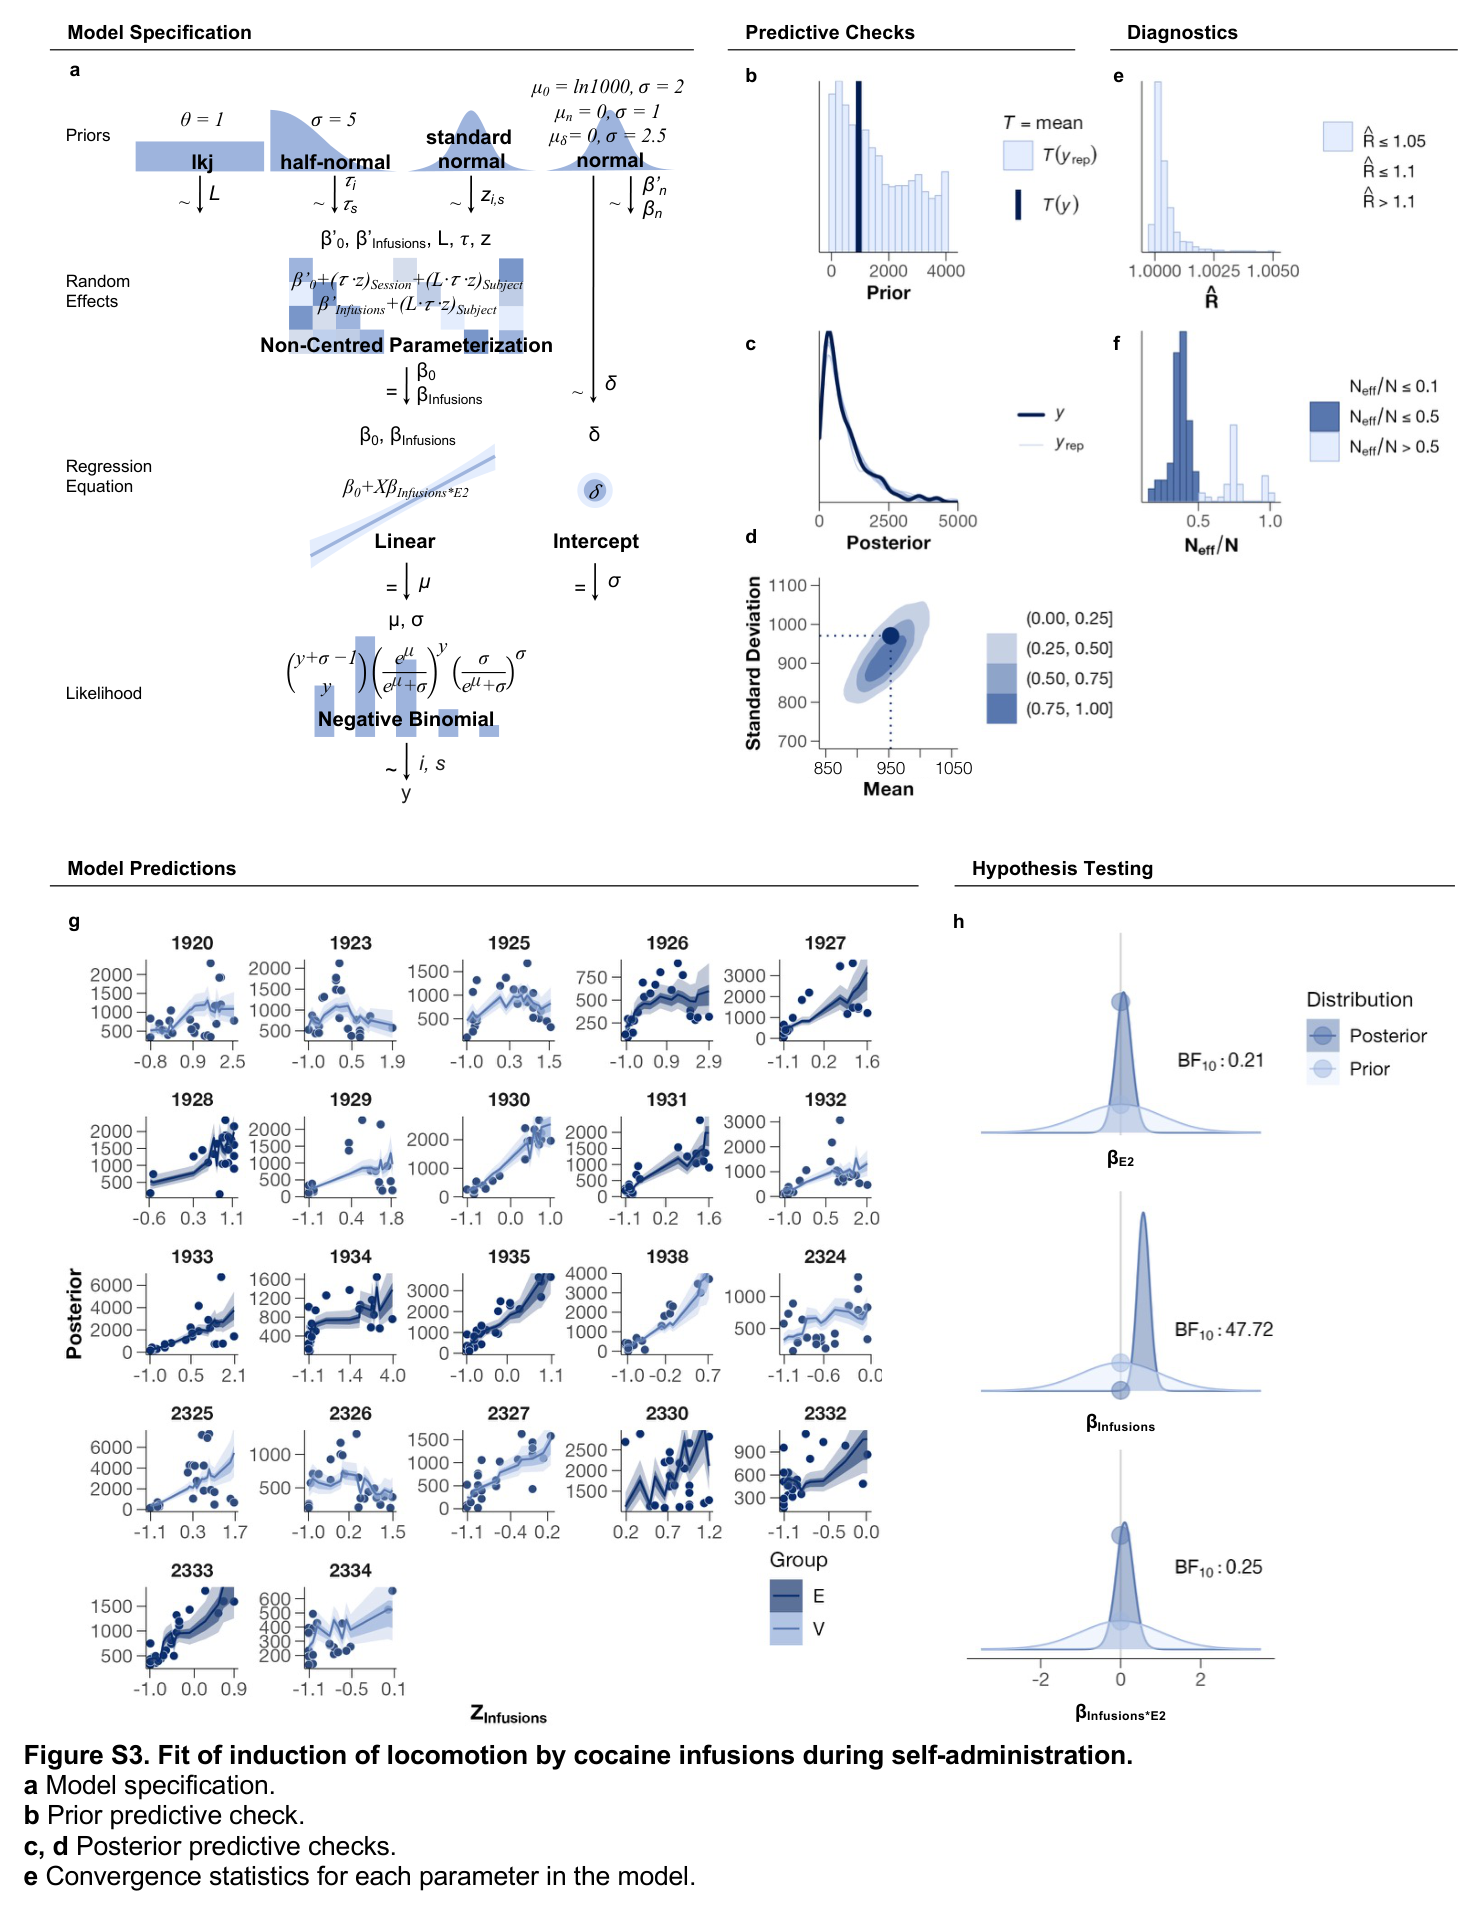
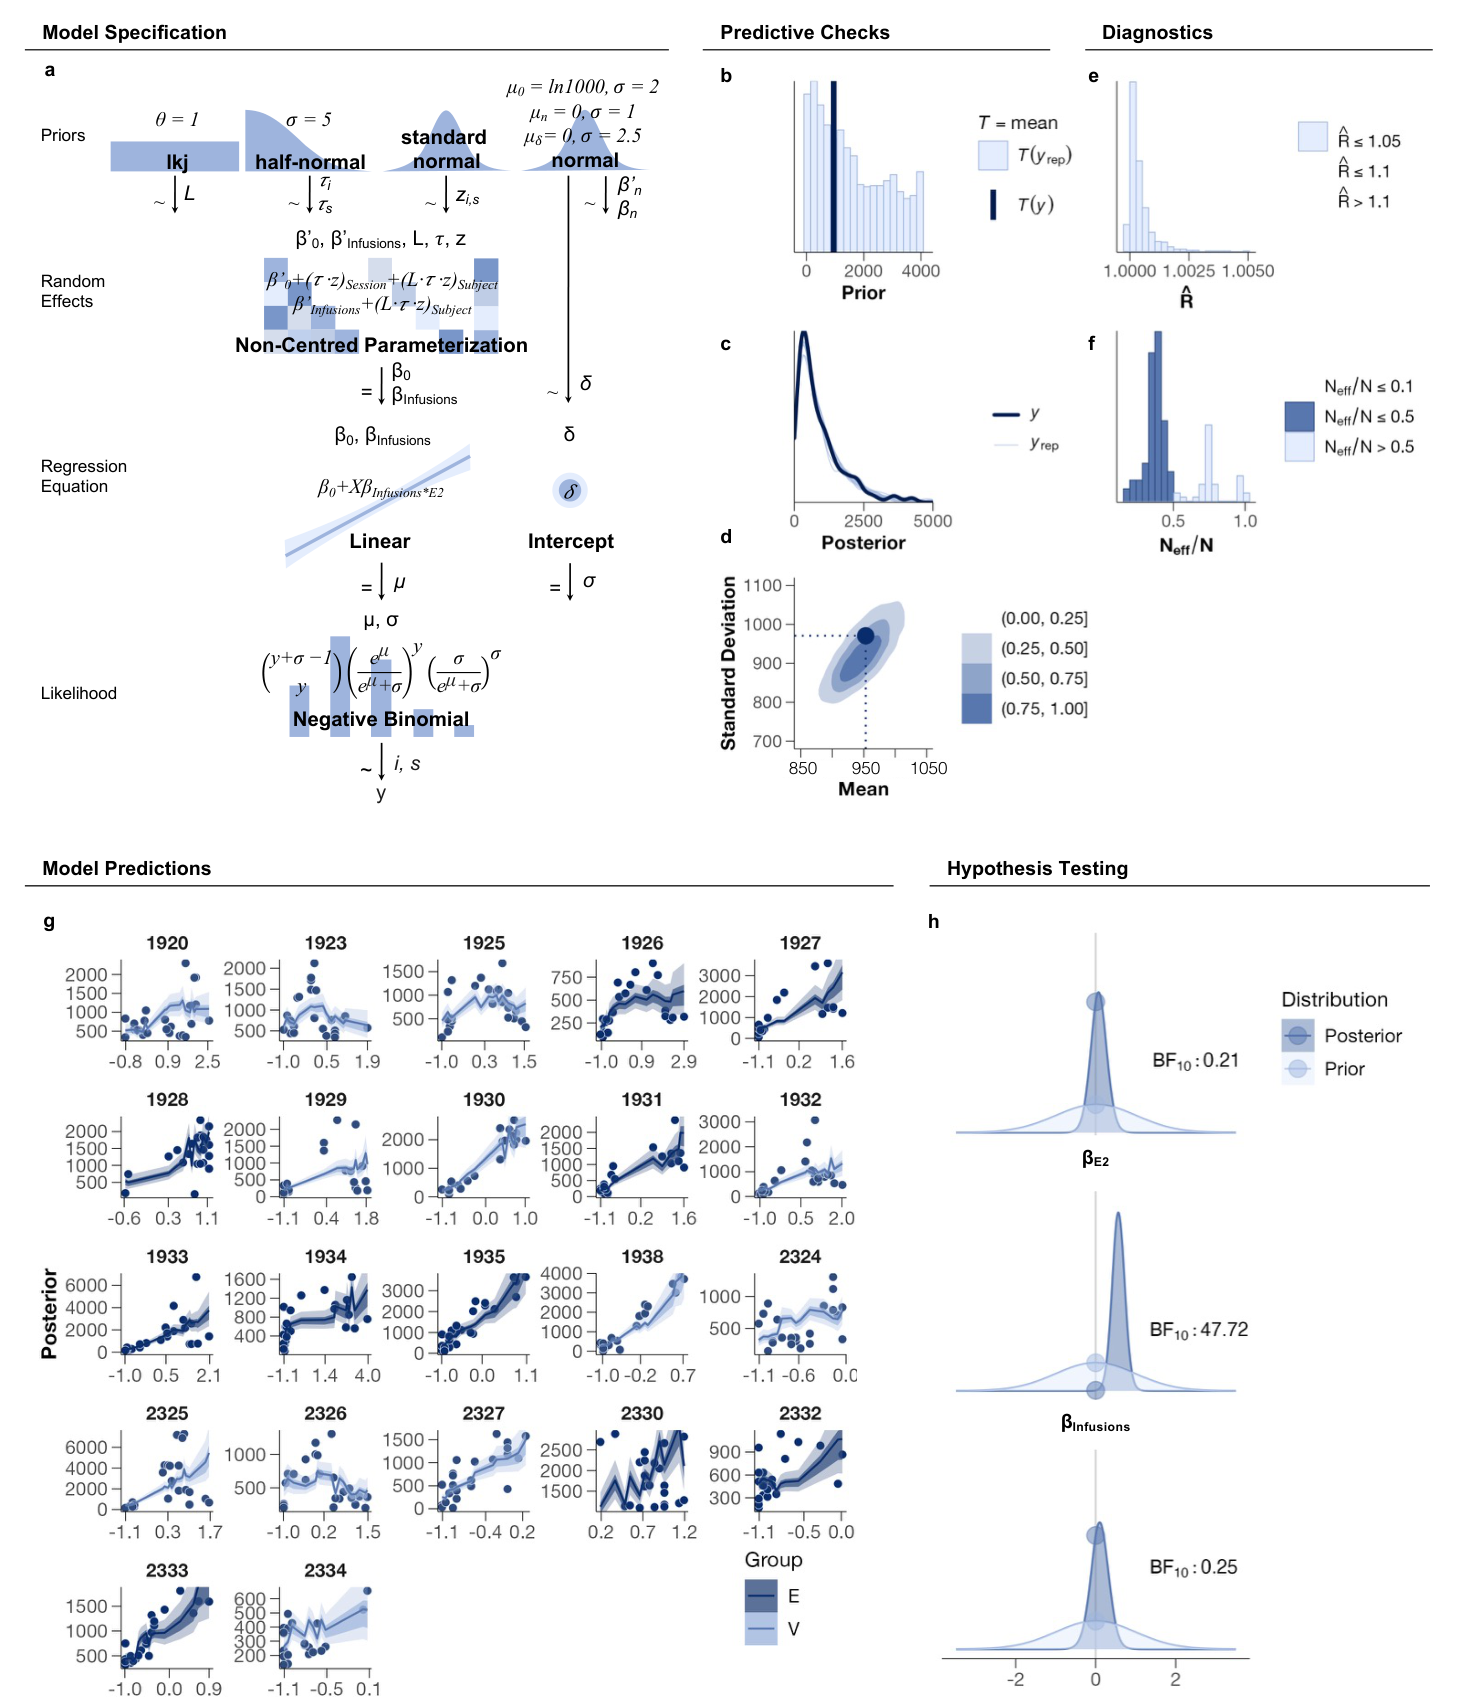
Place figures and model-documentation prose; site copy complete

diff --git a/model-documentation.html b/model-documentation.html
@@ -33,17 +33,11 @@
   </header>
 
   <section>
-    <p class="eyebrow">The set</p>
-    <h2>Seven models</h2>
+    <p class="eyebrow">Describing a model</p>
 
-    <div class="todo">
-      <span class="lbl">Write &mdash; about 80 words</span>
-      <p><em>Do not argue for the practice.</em> Anyone who can evaluate this page already knows what a generative diagram is and why you draw one. Explaining it spends words on a reader who was never going to be persuaded, and mildly patronises the one who was.</p>
-      <p><em>Say the one thing that is not obvious:</em> you cannot produce this diagram from a <code>brm()</code> call. Drawing it requires knowing what brms generated on your behalf &mdash; the non-centred reparameterisation, the Cholesky factor, where each prior actually lands. That is a claim about comprehension rather than usage, and it is yours.</p>
-      <p><em>Then the range:</em> three likelihood families, three link structures, priors annotated on the arrows with real numbers. Let the grid do the rest.</p>
-    </div>
+    <p>It can be difficult to adequately describe generative models in methods sections with many complex analyses and strict word limits. An effective method of clarifying the structure of these models is visualization (Kruschke, 2015). Each figure visually and compactly communicates the likelihood function selected and its parameters, the regression functions placed on each of these parameters, the random effects parameterization selected, and the priors placed on all parameters. All seven below are drawn at the same scale, so differences in height track how many hierarchical levels each model carries.</p>
 
-    <figure class="plate-grid" style="margin:26px 0">
+    <div class="plate-grid" style="margin:26px 0">
       <div class="mount"><img src="figures/model-diagram-1.png" alt="Generative model: generalized logistic growth on three responses, multivariate negative binomial likelihood, LKJ prior on the subject correlation matrix."></div>
       <div class="mount"><img loading="lazy" src="figures/model-diagram-2.png" alt="Generative model: exponential decay on three responses, multivariate negative binomial likelihood."></div>
       <div class="mount"><img loading="lazy" src="figures/model-diagram-3.png" alt="Generative model: linear predictor for infusions by estradiol, hierarchical on session and subject, negative binomial likelihood."></div>
@@ -51,57 +45,28 @@
       <div class="mount"><img loading="lazy" src="figures/model-diagram-5.png" alt="Generative model: linear predictor with lognormal likelihood for cumulative consumption."></div>
       <div class="mount"><img loading="lazy" src="figures/model-diagram-6.png" alt="Generative model: cocaine by estradiol, trivariate hierarchical multivariate negative binomial."></div>
       <div class="mount"><img loading="lazy" src="figures/model-diagram-7.png" alt="Generative model: exponential decay with estradiol, trivariate hierarchical multivariate negative binomial."></div>
-    </figure>
-    <figcaption style="margin-top:-8px"><b>Seven generative models</b> from a single study. All drawn at the same scale — the height differences are real, and track how many hierarchical levels each model carries.</figcaption>
+    </div>
   </section>
 
   <section>
-    <p class="eyebrow">The artifact</p>
-    <h2>What a complete audit page holds</h2>
+    <p class="eyebrow">Auditing a model</p>
 
-    <div class="todo">
-      <span class="lbl">Write &mdash; about 80 words</span>
-      <p><em>Name what is on the page, briefly &mdash; the panels are labelled in the figure and do not need narrating.</em> Specification, prior predictive, diagnostics, per-subject predictions, hypothesis test. One page per model, seven of them.</p>
-      <p><em>Then the one thing that is not standard.</em> Most supplements skip the prior predictive check entirely, and most report a summary fit rather than every subject. Say which of these you would drop last and why.</p>
-      <p><em>Cross-reference:</em> the specification panel at the top left is the third of the seven above.</p>
-    </div>
+    <p>In addition to describing the generative structures of the specified models, an audit of the reliability of the model predictions should be provided (Kruschke, 2021). We can show that the selected priors cover most of the range of plausible parameter values and that the data generating process was adequately described using predictive checks. We can also show that our MCMC chains converged with R&#770; and effective sample size histograms. Additionally, sometimes when the population predictions look reasonable, the model might fail catastrophically on some individual subjects &mdash; we can show subject-level posteriors to rule this error out. Finally, we can illustrate hypothesis testing of our model parameters in Savage-Dickey Bayes factor plots.</p>
 
     <figure>
-      <div class="mount"><img loading="lazy" src="figures/audit-acquisition.png" alt="Composite supplement page: model specification diagram, prior predictive checks, convergence diagnostics, twenty-seven per-subject model predictions, and three Savage-Dickey hypothesis tests."></div>
-      <figcaption><b>One model, fully documented.</b> Specification (a), prior and posterior predictive checks (b–d), convergence diagnostics (e–f), per-subject predictions (g), and Savage-Dickey density ratios with Bayes factors (h).</figcaption>
+      <div class="mount"><img loading="lazy" src="figures/audit-acquisition.png" alt="Composite supplement page: model specification diagram, prior predictive check, posterior predictive checks, convergence diagnostics, twenty-seven per-subject model predictions, and three Savage-Dickey hypothesis tests."></div>
     </figure>
+
+    <div class="callout">
+      <p>Kruschke, J. K. (2015). <em>Doing Bayesian Data Analysis: A Tutorial with R, JAGS, and Stan</em> (2nd ed.). Academic Press.</p>
+      <p>Kruschke, J. K. (2021). Bayesian analysis reporting guidelines. <em>Nature Human Behaviour</em>, 5(10), 1282&ndash;1291.</p>
+    </div>
   </section>
 
   <section>
-    <p class="eyebrow">Fit</p>
-    <h2>Every subject, not the average</h2>
+    <p class="eyebrow">Limitations</p>
 
-    <div class="todo">
-      <span class="lbl">Write — about 120 words</span>
-      <p><em>Claim:</em> a group mean can look like a good fit while individual animals are being badly described. Plotting every subject is the check that catches it.</p>
-      <p><em>Say what this grid actually showed you</em> — was there an animal the model handled badly? Name it. A concrete failure found this way is worth more than the principle.</p>
-      <p><em>Note</em> these are other investigators' projects that you did the analysis for, if you are comfortable saying so.</p>
-    </div>
-
-    <figure>
-      <div class="mount"><img loading="lazy" src="figures/subject-posteriors.png" alt="Grid of approximately sixty small panels, one per animal, each showing observed points against a posterior mean curve with credible band."></div>
-      <figcaption><b>Per-subject posterior predictions.</b> Non-linear growth curves with subject effects on every latent parameter.</figcaption>
-    </figure>
-  </section>
-
-  <section>
-    <p class="eyebrow">Limits</p>
-    <h2>What even this does not show</h2>
-
-    <div class="todo">
-      <span class="lbl">Write &mdash; about 120 words. The most valuable section on the site.</span>
-      <p><em>The move:</em> that audit page is about as thorough as supplements get, and it still has gaps. Naming them is the point of the section &mdash; it is what separates a thorough supplement from a considered one.</p>
-      <p><em>Three concrete gaps, all visible by their absence in the figure above:</em></p>
-      <p>&middot; <strong>Divergences are not plotted.</strong> Panels e and f are R&#770; and effective sample size; neither reports divergent transitions, and these models had some &mdash; consistently around 0.1%, from weak identifiability. A reader looking at those panels would not know.</p>
-      <p>&middot; <strong>No out-of-sample check.</strong> Every panel assesses fit to the data the model was given.</p>
-      <p>&middot; <strong>No comparison against an alternative.</strong> The audit shows this model is internally sound, not that it is the right one.</p>
-      <p><em>Do not hedge into vagueness.</em> Numbers where you have them, and say what you would trade to fix each.</p>
-    </div>
+    <p>Although thorough, these plots still do not convey some important information for establishing model trustworthiness. First, the model specified with two non-linear negative binomial models consistently outputs approximately 0.1% divergent transitions owing to weak random effect identifiability. The non-linear function and/or random effects structure should be simplified to remove these divergences. Additionally, these models are shown to be internally reliable, but these figures do not demonstrate that each model&rsquo;s predictions are accurate for new unfitted observations. Similarly, although reliable, these models are not necessarily the best models, as no model comparisons are demonstrated in these figures.</p>
   </section>
 
 </main>

diff --git a/figures.html b/figures.html
@@ -29,56 +29,52 @@
 
   <header class="page" style="border:0;padding-bottom:8px">
     <h1>Figures</h1>
-    <div class="todo" style="max-width:66ch">
-      <span class="lbl">Write — 30 words, two sentences</span>
-      <p><em>What the tool is and why you do it yourself.</em> That is the whole intro. Restraint is the game on this page; prose around the figures reads as insecurity about them.</p>
-      <p><em>Do not apologise for PowerPoint.</em> If it comes up it is a fact about the tool, not a caveat about the work.</p>
-    </div>
   </header>
 
   <section style="border:0;padding-top:20px">
-    <p class="eyebrow">Interoception and addiction · review</p>
+    <p>These figures are made simply using PowerPoint shapes and splines rather than pre-fabricated icons, for a look unique to me.</p>
+  </section>
+
+  <section style="border:0">
+    <p class="eyebrow">Unpublished &mdash; cut from an earlier draft of the review, which discussed sex differences more</p>
 
     <figure class="plate">
-      <h2>Estrogen receptor signalling</h2>
       <div class="mount"><img src="figures/er-signalling.jpg" alt="Radial diagram of a cell showing seven labelled signalling pathways: nuclear and membrane estrogen receptors, second messenger cascades, transcription factor complexes at ERE, AP-1 and CRE response elements, protein synthesis via mTORC, and ion channel effects on polarisation."></div>
-      <figcaption>
-        <div class="todo"><span class="lbl">Caption — 25 words</span>
-        <p><em>What it shows, where it appeared, one concrete construction detail.</em> The sector dividers, the decision to arrange radially, how long the receptor glyphs took — something a reader could not infer from looking.</p></div>
-      </figcaption>
-    </figure>
-
-    <figure class="plate">
-      <h2>Relapse circuitry</h2>
-      <div class="mount"><img loading="lazy" src="figures/relapse-circuits.jpg" alt="Sagittal rat brain with traced projections between prefrontal cortex, striatum, amygdala, hippocampus, thalamus and midbrain, with the striatum highlighted."></div>
-      <figcaption><div class="todo"><span class="lbl">Caption — one line</span><p>Where it appeared, and what it shows.</p></div></figcaption>
+      <figcaption><b>Figure 1.</b> Signal transduction via estrogen and progestin receptors in neurons in the brain.</figcaption>
     </figure>
 
     <div class="plate-grid">
       <figure class="plate">
-        <h2 style="font-size:21px">Receptor distribution</h2>
+        <div class="mount"><img loading="lazy" src="figures/relapse-circuits.jpg" alt="Sagittal rat brain with traced projections between prefrontal cortex, striatum, amygdala, hippocampus, thalamus and midbrain, with the striatum highlighted."></div>
+        <figcaption><b>Figure 2.</b> Inputs to the striatum involved in reinstatement of drug seeking in rats.</figcaption>
+      </figure>
+      <figure class="plate">
         <div class="mount"><img loading="lazy" src="figures/er-distribution.jpg" alt="Twelve coronal rat brain atlas plates arranged in three rows, with estrogen receptor density mapped by graded shading across three receptor subtypes."></div>
-        <figcaption><div class="todo"><span class="lbl">Caption &mdash; one line</span><p>Where it appeared, and what it shows. No construction detail needed &mdash; only two captions on this page carry one.</p></div></figcaption>
-      </figure>
-      <figure class="plate">
-        <h2 style="font-size:21px">Drug onset cues</h2>
-        <div class="mount"><img loading="lazy" src="figures/drug-onset-cue.jpg" alt="Rat illustrated with visceral organs and vagal afferents labelled by sensation, with an inset tracing the interoceptive pathway from brainstem to insula."></div>
-        <figcaption><div class="todo"><span class="lbl">Caption &mdash; one line</span><p>Where it appeared, and what it shows. No construction detail needed &mdash; only two captions on this page carry one.</p></div></figcaption>
-      </figure>
-      <figure class="plate">
-        <h2 style="font-size:21px">Occasion setting</h2>
-        <div class="mount"><img loading="lazy" src="figures/occasion-setting.jpg" alt="Three-panel circuit schematic of interoceptive occasion setting, showing VTA gating, orbitofrontal inhibition, and amygdalar and hippocampal contributions."></div>
-        <figcaption><div class="todo"><span class="lbl">Caption &mdash; one line</span><p>Where it appeared, and what it shows. No construction detail needed &mdash; only two captions on this page carry one.</p></div></figcaption>
+        <figcaption><b>Figure 3.</b> Quantitative patterns of expression of estrogen receptor subtypes in the brain.</figcaption>
       </figure>
     </div>
   </section>
 
   <section style="border:0">
-    <p class="eyebrow">Master's thesis</p>
+    <p class="eyebrow">Peart &amp; Murray (2026), <em>Neuroscience and Biobehavioral Reviews</em></p>
+
+    <div class="plate-grid">
+      <figure class="plate">
+        <div class="mount"><img loading="lazy" src="figures/drug-onset-cue.jpg" alt="Rat illustrated with visceral organs and vagal afferents labelled by sensation, with an inset tracing the interoceptive pathway from brainstem to insula."></div>
+        <figcaption><b>Figure 4.</b> Neurobiology of drug onset cues.</figcaption>
+      </figure>
+      <figure class="plate">
+        <div class="mount"><img loading="lazy" src="figures/occasion-setting.jpg" alt="Three-panel circuit schematic of interoceptive occasion setting, showing VTA gating, orbitofrontal inhibition, and amygdalar and hippocampal contributions."></div>
+        <figcaption><b>Figure 5.</b> Neural circuits mediating occasion setting by interoceptive stimuli.</figcaption>
+      </figure>
+    </div>
+  </section>
+
+  <section style="border:0">
+    <p class="eyebrow">Peart et al. (2024), <em>Hormones and Behavior</em></p>
     <figure class="plate">
-      <h2>Experimental timeline</h2>
       <div class="mount"><img loading="lazy" src="figures/thesis-timeline.jpg" alt="Experimental timeline figure: daily vaginal lavage, discrimination training, estrous phase determination by cytology, generalization testing, and the dependent measure."></div>
-      <figcaption><div class="todo"><span class="lbl">Caption — one line</span><p>Where it appeared, and what it shows.</p></div></figcaption>
+      <figcaption><b>Figure 6.</b> Experimental timeline of discrimination of an interoceptive occasion setter across the rat estrous cycle.</figcaption>
     </figure>
   </section>
 
